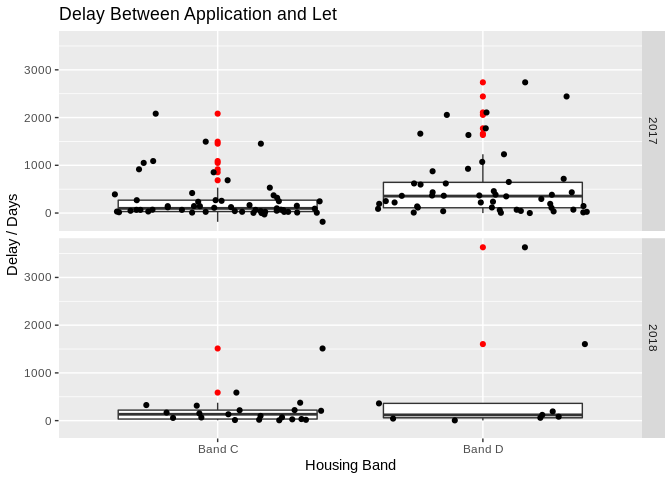
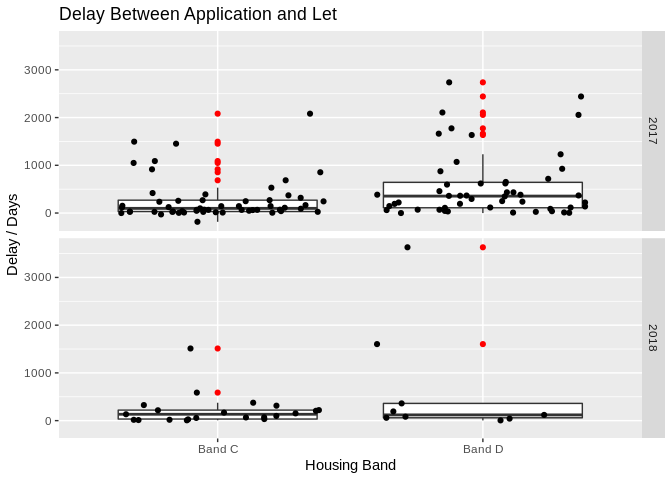
Added band B to outputs

diff --git a/lancaster-social-housing/Lancaster_Social_Housing_Analysis.md b/lancaster-social-housing/Lancaster_Social_Housing_Analysis.md
@@ -98,10 +98,14 @@ The ratio of bids to lets by bedroom shows that the demand for single bedroom pr
 
 ![](Lancaster_Social_Housing_Analysis_files/figure-markdown_github/housing_bedroom_properties_ratio-1.png)
 
-Recent One-Bedroom, Band C & D Lets
------------------------------------
+Recent One-Bedroom, Band B, C, & D Lets
+---------------------------------------
 
 I'm not happy with having different breaks on the x-axis for the number of lets and bid ratio between the two plots, but the facet\_grid command needs the free\_x axis so that the two different types of data can have their own axis. When I get time I'll see if I can dictate two different sets of breaks for each facet.
+
+### Band B
+
+![](Lancaster_Social_Housing_Analysis_files/figure-markdown_github/band_b_lets_and_ratio-1.png)
 
 ### Band C
 
@@ -120,6 +124,6 @@ Plotting the average delay between an application being made, and a bid being wo
 
 ![](Lancaster_Social_Housing_Analysis_files/figure-markdown_github/average_delay_to_let-1.png)
 
-In the plot above what isn't captured is how variable the delays are, and so lastly I want to use some boxplots to look at the same data, but this time for only band C and D properties, with one bedroom. The first uses all the data, while the second removes data with delay greater than 1000 days.
+In the plot above what isn't captured is how variable the delays are, and so lastly I want to use some boxplots to look at the same data, but this time for only band B, C, and D properties, with one bedroom. The first uses all the data, while the second removes data with delay greater than 1000 days.
 
-![](Lancaster_Social_Housing_Analysis_files/figure-markdown_github/average_delay_one_bed_cd-1.png)![](Lancaster_Social_Housing_Analysis_files/figure-markdown_github/average_delay_one_bed_cd-2.png)
+![](Lancaster_Social_Housing_Analysis_files/figure-markdown_github/average_delay_one_bed_bcd-1.png)![](Lancaster_Social_Housing_Analysis_files/figure-markdown_github/average_delay_one_bed_bcd-2.png)
